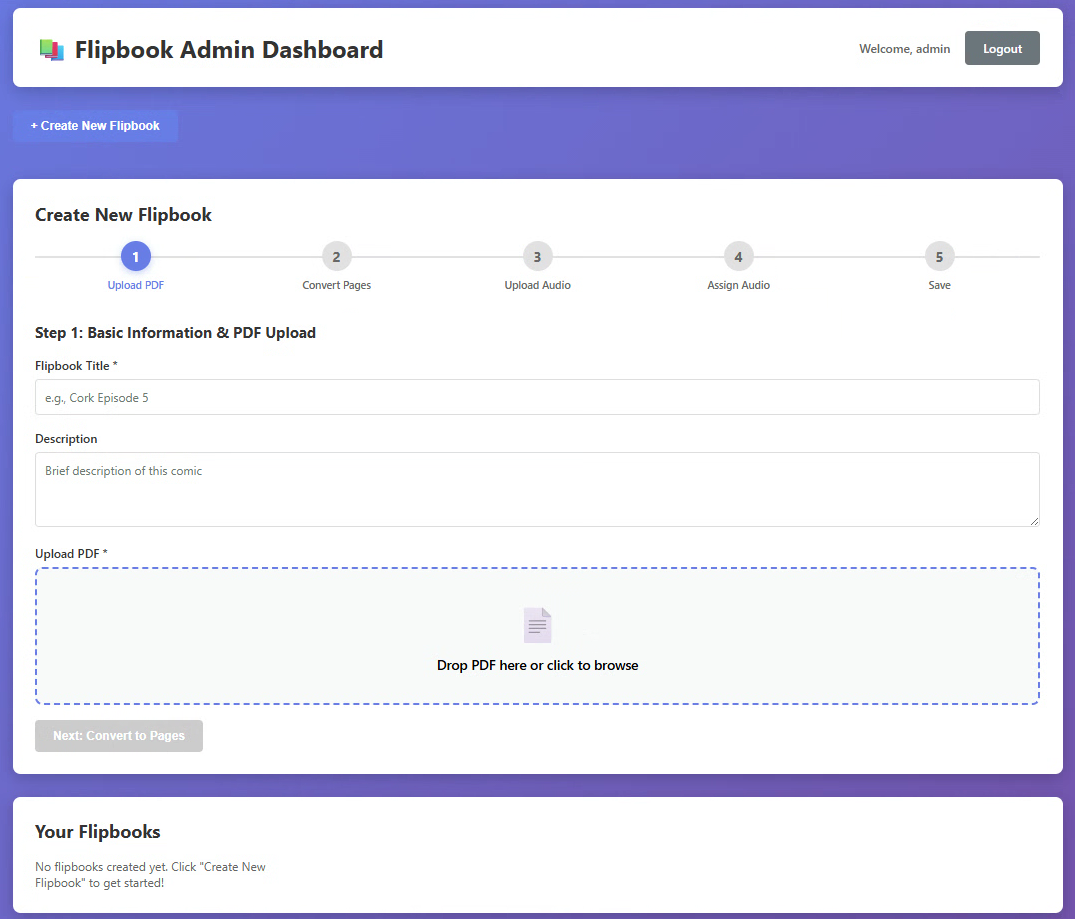
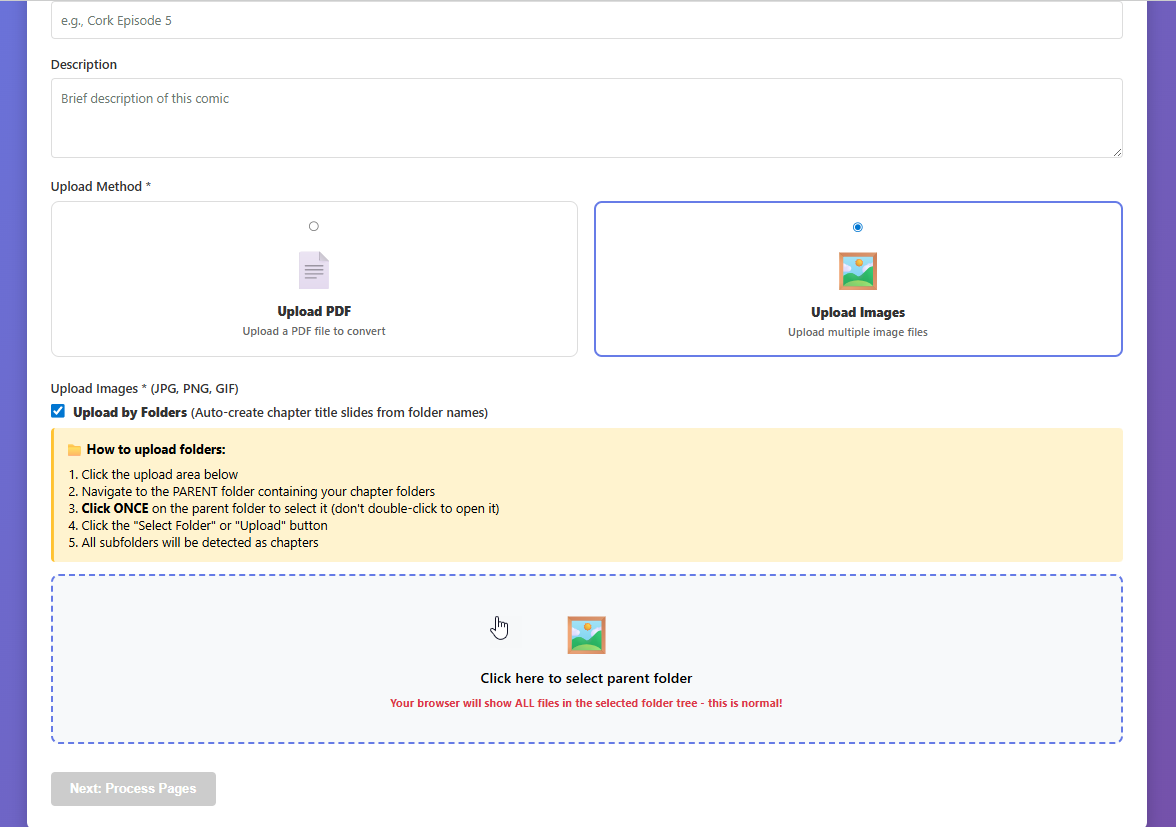
Update screenshots to showcase chapter upload feature
- Replaced admin screenshot with upload interface view
- Added new screenshot showing chapter title slide creator
- Updated captions to highlight drag-and-drop and chapter organization
- Shows auto-generated chapter slides with thumbnail preview

diff --git a/README.md b/README.md
@@ -19,7 +19,13 @@ A professional, self-hosted flipbook system with page-flip animations and synchr
 <p align="center">
   <img src=".github/screenshot-admin.png" alt="Admin Panel" width="800">
   <br>
-  <em>Easy-to-use admin interface with audio synchronization</em>
+  <em>Upload PDFs, images, or folders with drag-and-drop simplicity</em>
+</p>
+
+<p align="center">
+  <img src=".github/screenshot-chapters.png" alt="Chapter Creator" width="800">
+  <br>
+  <em>Auto-generated chapter title slides with thumbnail preview and page organization</em>
 </p>
 
 ## ✨ Features
